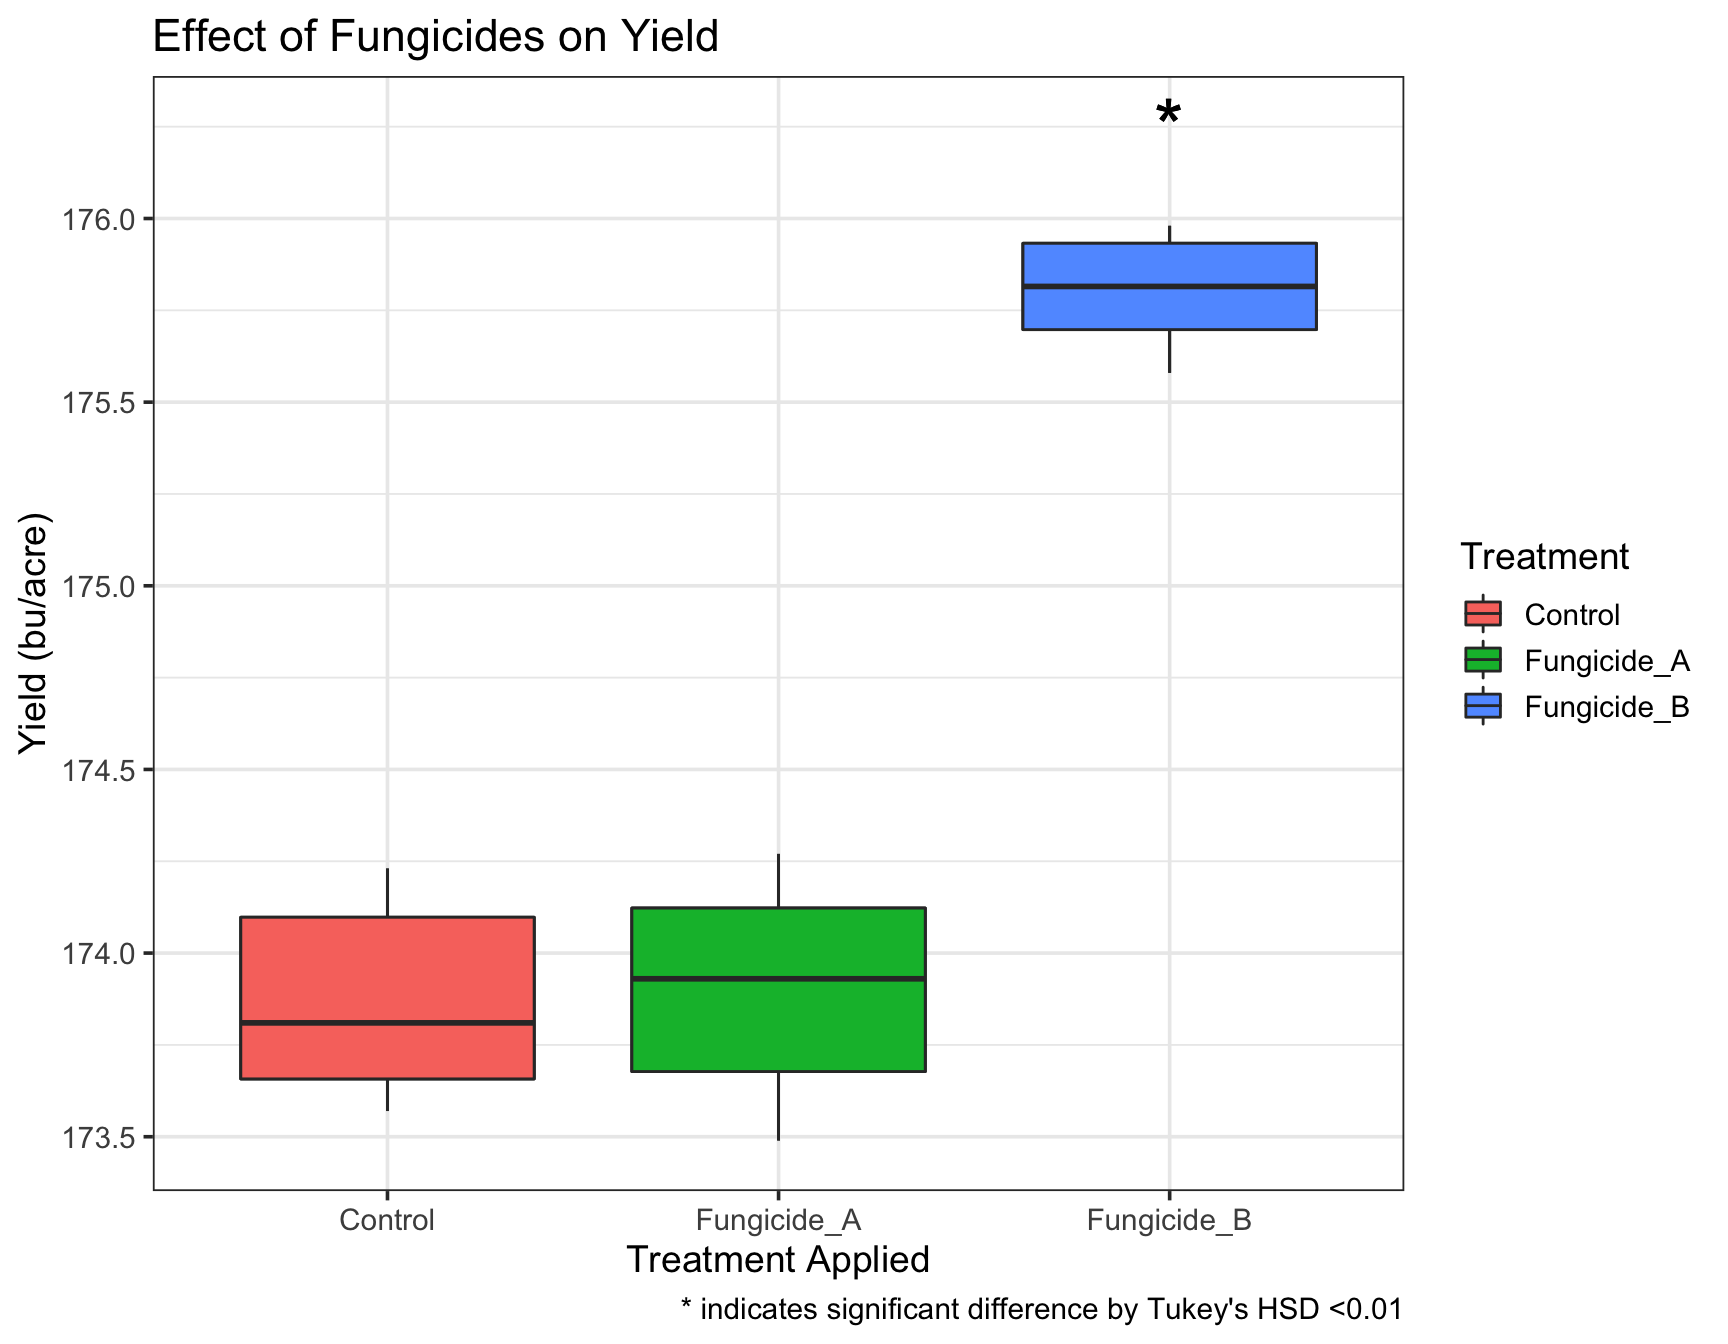
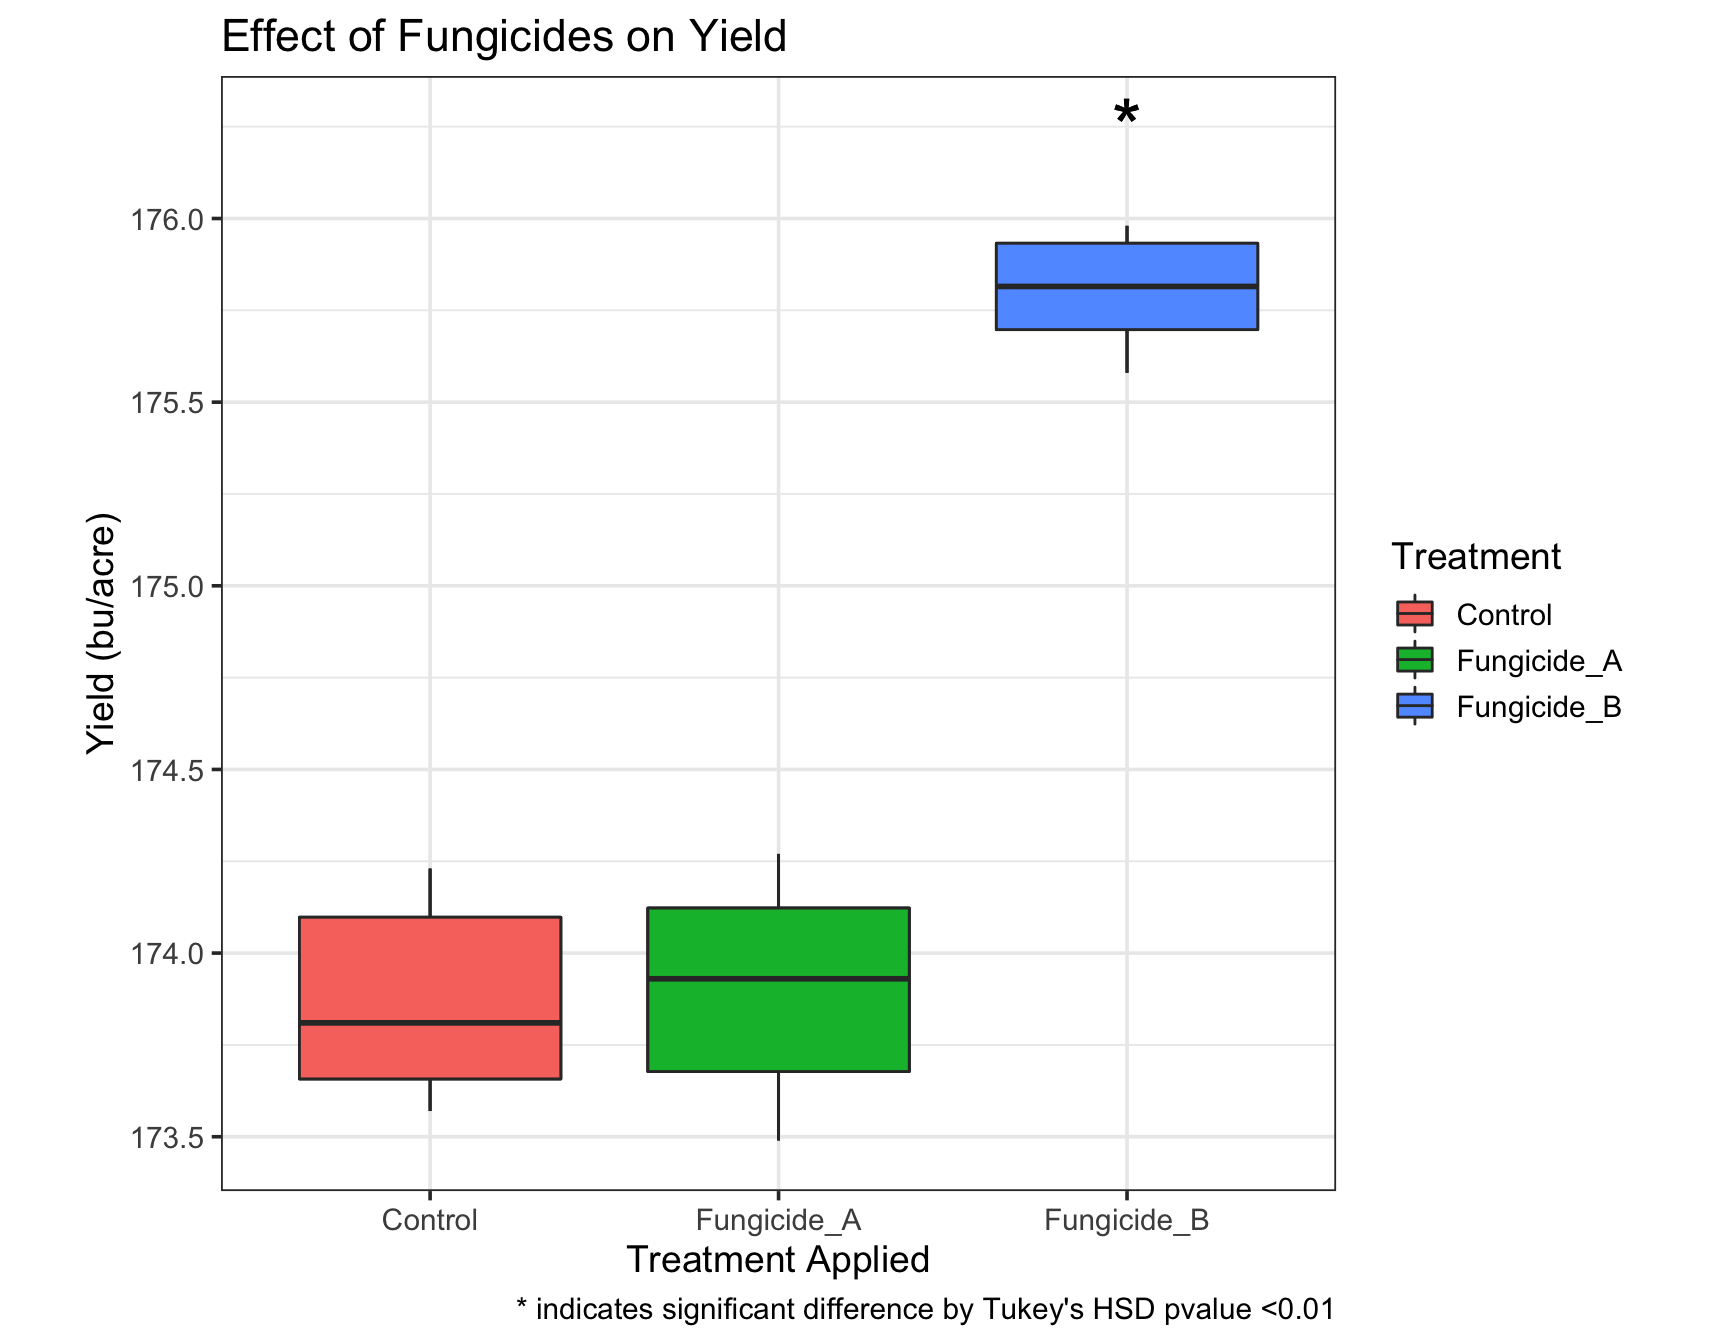
updates

diff --git a/docs/Part3-Visualization.html b/docs/Part3-Visualization.html
@@ -440,27 +440,29 @@ we can do this by adding <code>geom_boxplot(fill = &quot;orange&quot;)</code>.</
 </div>
 <div id="annotating-with-tukeys-hsd-letters" class="section level3">
 <h3>Annotating with Tukey’s HSD letters</h3>
-<p>Remember that ‘Fungicide_B’ is signfificantly different from both ‘Fungicide_A’ and ‘Control’. ‘Fungicide_A’ and ‘Control’ are not signficantly different from each other. If we want to include stars or letters indicating significant differences we can use ‘annotate()’.</p>
-<pre class="r"><code>&gt; #</code></pre>
-<p>With Letters</p>
+</div>
+</div>
+</div>
+<div id="remember-that-fungicide_b-is-signfificantly-different-from-both-fungicide_a" class="section level1">
+<h1>Remember that ‘Fungicide_B’ is signfificantly different from both ‘Fungicide_A’</h1>
+<p>and ‘Control’. ‘Fungicide_A’ and ‘Control’ are not signficantly different from each other. If we want to include stars or letters indicating significant differences we can use ‘annotate()’.<br />
+With Letters</p>
 <pre class="r"><code>&gt; yield.plot + annotate(&quot;text&quot;, x=&quot;Control&quot;, y= 174.5, label=&quot;A&quot;, size=5) +
 +              annotate(&quot;text&quot;, x=&quot;Fungicide_A&quot;, y= 174.5, label=&quot;A&quot;, size=5)+
 +              annotate(&quot;text&quot;, x=&quot;Fungicide_B&quot;, y= 176.25, label=&quot;B&quot;, size=5)</code></pre>
-<p><img src="Part3-Visualization_files/figure-html/unnamed-chunk-15-1.png" width="100%" style="display: block; margin: auto;" /></p>
+<p><img src="Part3-Visualization_files/figure-html/unnamed-chunk-14-1.png" width="100%" style="display: block; margin: auto;" /></p>
 <p>With stars</p>
 <pre class="r"><code>&gt; (yield.plot &lt;- yield.plot + annotate(&quot;text&quot;, x=&quot;Fungicide_B&quot;, y= 176.25, label=&quot;*&quot;, size=10))</code></pre>
-<p><img src="Part3-Visualization_files/figure-html/unnamed-chunk-16-1.png" width="100%" style="display: block; margin: auto;" /></p>
-<pre class="r"><code>&gt; #</code></pre>
+<p><img src="Part3-Visualization_files/figure-html/unnamed-chunk-15-1.png" width="100%" style="display: block; margin: auto;" /></p>
 <p>If we want to include a caption explaining what our annotations mean we can use ‘labs()’. We can also use this function to add subtitles, titles, or x and y labels.</p>
 <pre class="r"><code>&gt; (yield.plot &lt;- yield.plot + annotate(&quot;text&quot;, x=&quot;Fungicide_B&quot;, y= 176.25, label=&quot;*&quot;, size=10) +
-+                             labs(caption=&quot;* indicates significant difference by Tukey&#39;s HSD &lt;0.01&quot;))</code></pre>
-<p><img src="Part3-Visualization_files/figure-html/unnamed-chunk-17-1.png" width="100%" style="display: block; margin: auto;" /></p>
-</div>
++                             labs(caption=&quot;* indicates significant difference by Tukey&#39;s HSD pvalue &lt;0.01&quot;))</code></pre>
+<p><img src="Part3-Visualization_files/figure-html/unnamed-chunk-16-1.png" width="100%" style="display: block; margin: auto;" /></p>
 <div id="adjusting-look-and-feel-theme" class="section level3">
 <h3>Adjusting Look and Feel (theme)</h3>
 <p>The first thing we can do is change the default theme from <code>theme_grey()</code> to <code>theme_bw()</code>. We will simultaneously set the base size of the font to be 14pt.</p>
 <pre class="r"><code>&gt; (yield.plot &lt;- yield.plot + theme_bw(base_size = 14))</code></pre>
-<p><img src="Part3-Visualization_files/figure-html/unnamed-chunk-18-1.png" width="100%" style="display: block; margin: auto;" /></p>
+<p><img src="Part3-Visualization_files/figure-html/unnamed-chunk-17-1.png" width="100%" style="display: block; margin: auto;" /></p>
 <p>There are many different default themes available for ggplot2 objects that change many aspects of the look and feel. The <em>ggthemes</em> contains many popular themes such as fivethirtyeight and economist. Of course, we can make it prettier before including it in our final manuscript.</p>
 <p>To adjust granular aspects of the theme, we can use the <code>theme()</code> function, which contains a whopping 71 different options all related to the layout of the non-data aspects of the plot.</p>
 <pre class="r"><code>&gt; stop(&quot;
@@ -475,16 +477,16 @@ we can do this by adding <code>geom_boxplot(fill = &quot;orange&quot;)</code>.</
      </code></pre>
 <p>When we inspect the help page of the <code>theme()</code> function, we can find out how to adjust several parameters to make out plot look acceptable:</p>
 <pre class="r"><code>&gt; (yield.plot &lt;- yield.plot + theme(aspect.ratio = 1)) # This looks the same</code></pre>
-<p><img src="Part3-Visualization_files/figure-html/unnamed-chunk-20-1.png" width="100%" style="display: block; margin: auto;" /></p>
+<p><img src="Part3-Visualization_files/figure-html/unnamed-chunk-19-1.png" width="100%" style="display: block; margin: auto;" /></p>
 <pre class="r"><code>&gt; (yield.plot &lt;- yield.plot + theme(aspect.ratio = 2)) # This is too skinny</code></pre>
-<p><img src="Part3-Visualization_files/figure-html/unnamed-chunk-20-2.png" width="100%" style="display: block; margin: auto;" /></p>
+<p><img src="Part3-Visualization_files/figure-html/unnamed-chunk-19-2.png" width="100%" style="display: block; margin: auto;" /></p>
 <pre class="r"><code>&gt; (yield.plot &lt;- yield.plot + theme(aspect.ratio = 1.25)) # I think this is perfect!</code></pre>
-<p><img src="Part3-Visualization_files/figure-html/unnamed-chunk-20-3.png" width="100%" style="display: block; margin: auto;" /></p>
+<p><img src="Part3-Visualization_files/figure-html/unnamed-chunk-19-3.png" width="100%" style="display: block; margin: auto;" /></p>
 <pre class="r"><code>&gt; (yield.plot &lt;- yield.plot + theme(panel.grid = element_blank()))</code></pre>
-<p><img src="Part3-Visualization_files/figure-html/unnamed-chunk-20-4.png" width="100%" style="display: block; margin: auto;" /></p>
+<p><img src="Part3-Visualization_files/figure-html/unnamed-chunk-19-4.png" width="100%" style="display: block; margin: auto;" /></p>
 <p>Since the information in the legend is repetitive, we can remove it. If you ‘Google’ how to remove the legend in ggplot2, you will find that you can use <code>guides(fill=FALSE)</code>.</p>
 <pre class="r"><code>&gt; (yield.plot &lt;- yield.plot + guides(fill=FALSE))</code></pre>
-<p><img src="Part3-Visualization_files/figure-html/unnamed-chunk-21-1.png" width="100%" style="display: block; margin: auto;" /></p>
+<p><img src="Part3-Visualization_files/figure-html/unnamed-chunk-20-1.png" width="100%" style="display: block; margin: auto;" /></p>
 </div>
 <div id="putting-it-all-together" class="section level3">
 <h3>Putting it all together</h3>
@@ -501,7 +503,7 @@ we can do this by adding <code>geom_boxplot(fill = &quot;orange&quot;)</code>.</
 +   theme(panel.grid = element_blank()) +
 +   guides(fill=FALSE)
 &gt; yield.plot</code></pre>
-<p><img src="Part3-Visualization_files/figure-html/unnamed-chunk-22-1.png" width="100%" style="display: block; margin: auto;" /></p>
+<p><img src="Part3-Visualization_files/figure-html/unnamed-chunk-21-1.png" width="100%" style="display: block; margin: auto;" /></p>
 <p>We can now create a similar plot for Severity Data.</p>
 <pre class="r"><code>&gt; severity.plot &lt;- ggplot(fungicide, aes(x = Treatment, y = Severity)) +
 +   geom_boxplot() +
@@ -516,18 +518,16 @@ we can do this by adding <code>geom_boxplot(fill = &quot;orange&quot;)</code>.</
 +   annotate(&quot;text&quot;, x=&quot;Fungicide_B&quot;, y= 4.35, label=&quot;c&quot;, size=5) +
 +   labs(caption=&quot;letters indicates significant differences by Tukey&#39;s HSD &lt;0.01&quot;) 
 &gt; severity.plot</code></pre>
-<p><img src="Part3-Visualization_files/figure-html/unnamed-chunk-23-1.png" width="100%" style="display: block; margin: auto;" /></p>
+<p><img src="Part3-Visualization_files/figure-html/unnamed-chunk-22-1.png" width="100%" style="display: block; margin: auto;" /></p>
 <p>The text of the title is not in the center. To format text elements of the plot, we can use the function <code>element_text()</code> inside <code>theme()</code>. Since we need to edit the text of the plot title, we need to specify <code>plot.title = element_text()</code>. Since we need to adjust the text horizontally in the center, we modify it to <code>theme(plot.title = element_text(hjust = 0.5))</code>.</p>
 <pre class="r"><code>&gt; (severity.plot &lt;- severity.plot + theme(plot.title = element_text(hjust = 0.5), plot.caption=element_text(hjust=.5)))</code></pre>
-<p><img src="Part3-Visualization_files/figure-html/unnamed-chunk-24-1.png" width="100%" style="display: block; margin: auto;" /></p>
-</div>
+<p><img src="Part3-Visualization_files/figure-html/unnamed-chunk-23-1.png" width="100%" style="display: block; margin: auto;" /></p>
 </div>
 <div id="step-2-saving-our-plot" class="section level2">
 <h2>Step 2: Saving our plot</h2>
 <p>Now that we have our plot finished, we can save it with the <code>ggsave()</code> function, which allows us to save it as a pdf, png, svg, eps, etc. file. Or, we can click on ‘Export’ and save it.</p>
 <pre class="r"><code>&gt; ggsave(filename = &quot;results/figure1.pdf&quot;, width = 88, units = &quot;mm&quot;)</code></pre>
 <pre><code>Saving 88 x 178 mm image</code></pre>
-<pre><code>Error in grDevices::pdf(file = filename, ..., version = version): cannot open file &#39;results/figure1.pdf&#39;</code></pre>
 </div>
 </div>
 

diff --git a/docs/Part2-Analysis.html b/docs/Part2-Analysis.html
@@ -494,12 +494,9 @@ can use the function <code>list.files()</code> to view the files in your current
 <h2>Step 3: Advanced data manipulation</h2>
 <p>The package ‘dplyr’ provides functions for easy and advanced data manipulation. If we want to use it, we can download the package to our computer with the function <code>install.packages()</code>. This will install a package from CRAN and place it into your R <em>Library</em>.</p>
 <pre class="r"><code>&gt; install.packages(&quot;dplyr&quot;)</code></pre>
-<pre><code>Installing package into &#39;/Users/kaitlinmorey/Library/R/3.4/library&#39;
-(as &#39;lib&#39; is unspecified)</code></pre>
 <pre><code>Error in contrib.url(repos, &quot;source&quot;): trying to use CRAN without setting a mirror</code></pre>
 <p>To load this package, we can use the function <code>library()</code>.</p>
 <pre class="r"><code>&gt; library(&quot;dplyr&quot;)</code></pre>
-<pre><code>Warning: package &#39;dplyr&#39; was built under R version 3.4.4</code></pre>
 <pre><code>
 Attaching package: &#39;dplyr&#39;</code></pre>
 <pre><code>The following objects are masked from &#39;package:stats&#39;:
@@ -519,7 +516,6 @@ Attaching package: &#39;dplyr&#39;</code></pre>
 <p>We can also use the function <code>mutate()</code> from ‘dplyr’. This adds a new variable using existing variables. The usage of this function is as:</p>
 <p>mutate(data, new_variable_name = calculation_based_upon_existing_variables)</p>
 <pre class="r"><code>&gt; fungicide_1 &lt;- mutate(fungicide, Yield_kg_per_ha = Yield_bu_per_acre*62.77)</code></pre>
-<pre><code>Warning: package &#39;bindrcpp&#39; was built under R version 3.4.4</code></pre>
 <blockquote>
 <p>Note: We did not have to use fungicide$Yield_bu_per_acre.</p>
 </blockquote>
@@ -774,6 +770,81 @@ Fungicide_A-Control     -0.400000 -0.5491295 -0.2508705 1.28e-05
 Fungicide_B-Control     -1.416667 -1.5657962 -1.2675371 0.00e+00
 Fungicide_B-Fungicide_A -1.016667 -1.1657962 -0.8675371 0.00e+00</code></pre>
 <p>All the treatment pairs are significantly different from each other as the p-value is &lt; 0.05.</p>
+<pre class="r"><code>&gt; #</code></pre>
+</div>
+<div id="agricolae-package" class="section level2">
+<h2>Agricolae Package</h2>
+<p>Agricolae is a package that helps you with automatically designing and analyzing experiments (like an RCBD, or strip-plot) but also includes good functionality for doing multiple post-hoc tests, including Tukey’s HSD and Fischer’s LSD. Agricolae also contains a function to automatically calculate AUDPC. If you would like more information on using ‘agricolae’ please see the vignette here: <a href="https://cran.r-project.org/web/packages/agricolae/vignettes/tutorial.pdf" class="uri">https://cran.r-project.org/web/packages/agricolae/vignettes/tutorial.pdf</a>.</p>
+<pre class="r"><code>&gt; #
+&gt; install.packages(&quot;agricolae&quot;)</code></pre>
+<pre><code>Error in contrib.url(repos, &quot;source&quot;): trying to use CRAN without setting a mirror</code></pre>
+<pre class="r"><code>&gt; library(agricolae)
+&gt; #</code></pre>
+<p>Fischer’s LSD</p>
+<pre class="r"><code>&gt; yield.lsd &lt;- LSD.test(fit_yield, &quot;Treatment&quot;)
+&gt; yield.lsd</code></pre>
+<pre><code>$statistics
+     MSerror Df     Mean       CV t.value       LSD
+  0.06615556 15 174.5244 0.147376 2.13145 0.3165174
+
+$parameters
+        test p.ajusted    name.t ntr alpha
+  Fisher-LSD      none Treatment   3  0.05
+
+$means
+            Yield_bu_per_acre       std r      LCL      UCL    Min    Max
+Control              173.8700 0.2817801 6 173.6462 174.0938 173.57 174.23
+Fungicide_A          173.9000 0.3062025 6 173.6762 174.1238 173.49 174.27
+Fungicide_B          175.8033 0.1590807 6 175.5795 176.0271 175.58 175.98
+                 Q25     Q50      Q75
+Control     173.6575 173.810 174.0975
+Fungicide_A 173.6775 173.930 174.1225
+Fungicide_B 175.6975 175.815 175.9325
+
+$comparison
+NULL
+
+$groups
+            Yield_bu_per_acre groups
+Fungicide_B          175.8033      a
+Fungicide_A          173.9000      b
+Control              173.8700      b
+
+attr(,&quot;class&quot;)
+[1] &quot;group&quot;</code></pre>
+<pre class="r"><code>&gt; #</code></pre>
+<p>Tukey’s HSD</p>
+<pre class="r"><code>&gt; yield.hsd &lt;- HSD.test(fit_yield, &quot;Treatment&quot;)
+&gt; yield.hsd</code></pre>
+<pre><code>$statistics
+     MSerror Df     Mean       CV       MSD
+  0.06615556 15 174.5244 0.147376 0.3857208
+
+$parameters
+   test    name.t ntr StudentizedRange alpha
+  Tukey Treatment   3         3.673378  0.05
+
+$means
+            Yield_bu_per_acre       std r    Min    Max      Q25     Q50
+Control              173.8700 0.2817801 6 173.57 174.23 173.6575 173.810
+Fungicide_A          173.9000 0.3062025 6 173.49 174.27 173.6775 173.930
+Fungicide_B          175.8033 0.1590807 6 175.58 175.98 175.6975 175.815
+                 Q75
+Control     174.0975
+Fungicide_A 174.1225
+Fungicide_B 175.9325
+
+$comparison
+NULL
+
+$groups
+            Yield_bu_per_acre groups
+Fungicide_B          175.8033      a
+Fungicide_A          173.9000      b
+Control              173.8700      b
+
+attr(,&quot;class&quot;)
+[1] &quot;group&quot;</code></pre>
 </div>
 </div>
 
